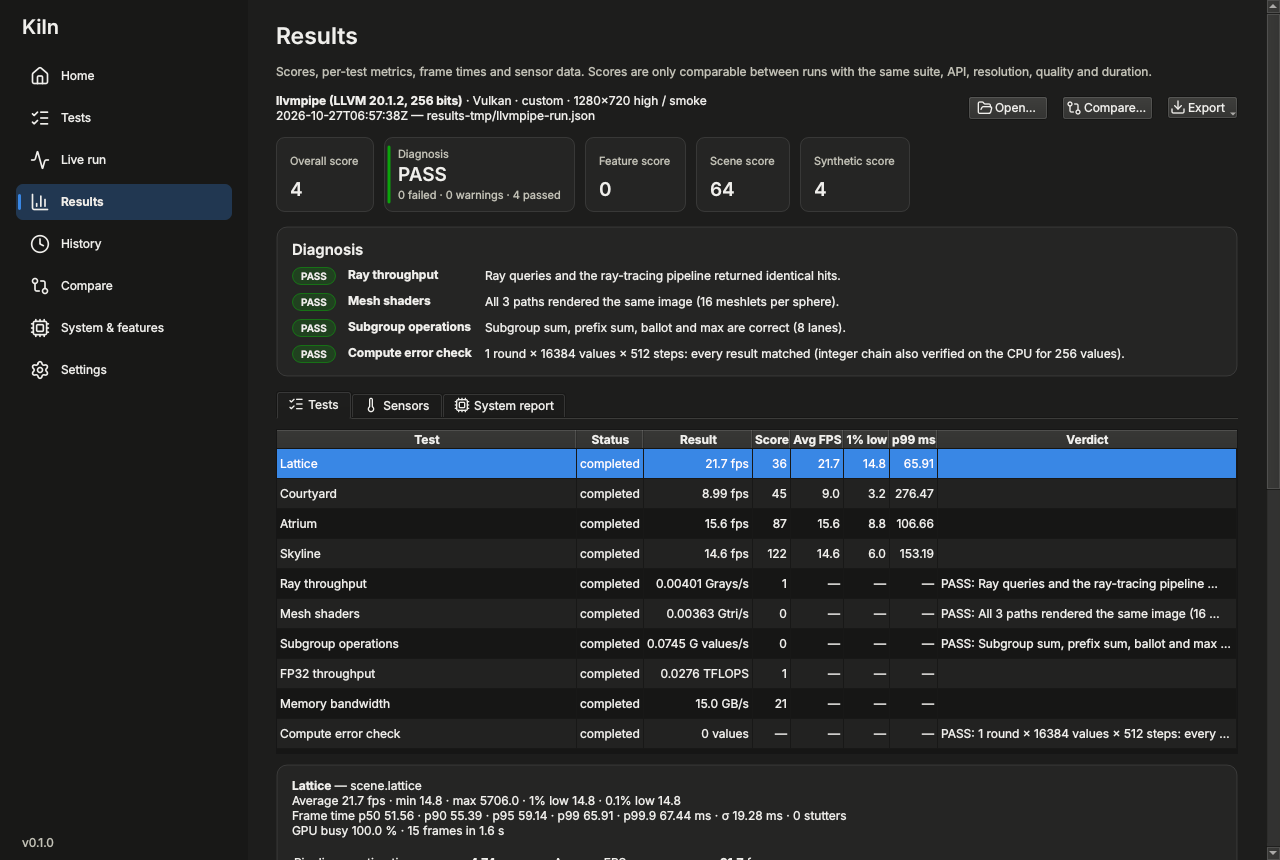
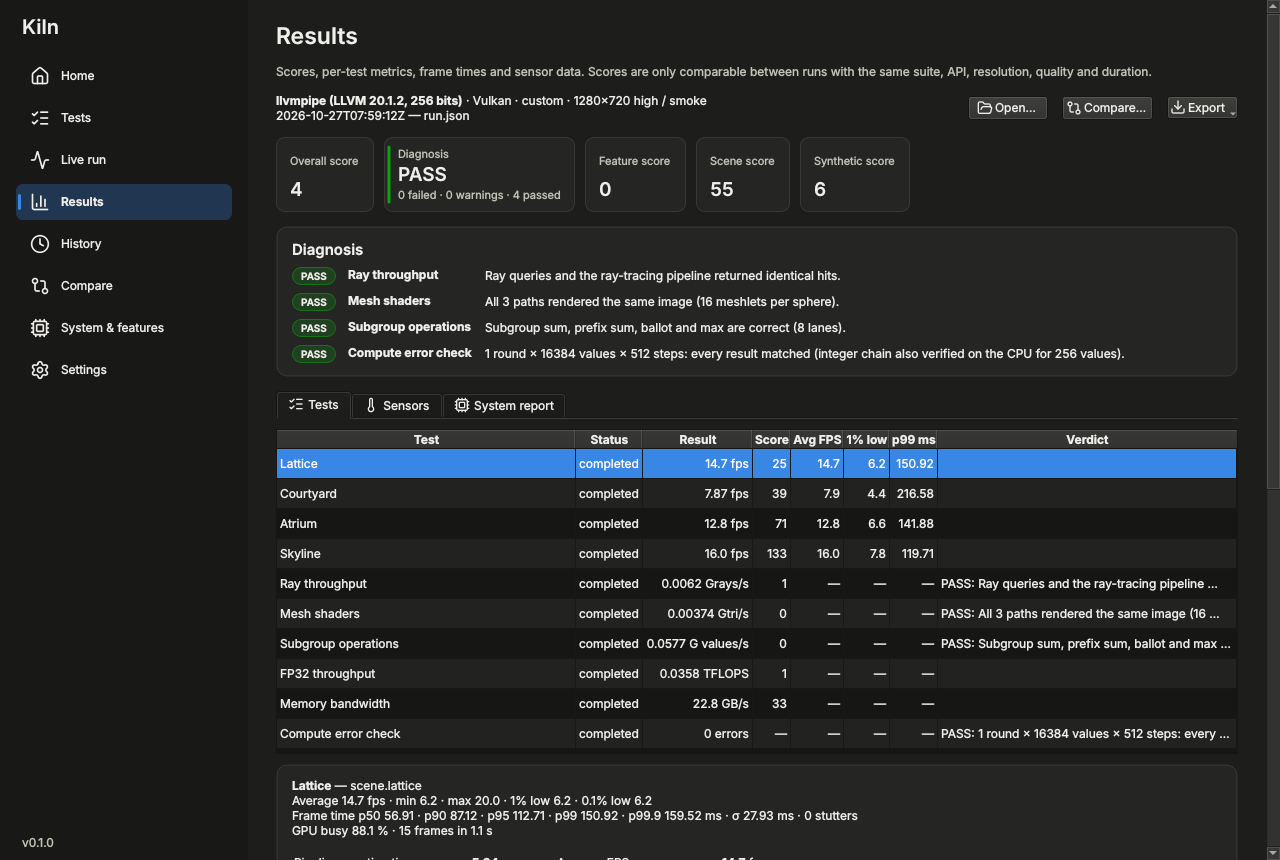
Frame timing: frames right after a golden-frame dump are rendered but not timed
The dump drains the GPU, so the frames in flight after it did not wait for an
earlier frame and recorded only CPU time (near-zero frame times and a bogus max
fps in golden and hardware-report runs). Their timestamps are still read, as
some drivers pace the loop through that read. Diagnostics' headline units read
'errors' / 'bad frames'; README results screenshot regenerated.

Claude-Session: https://claude.ai/code/session_01WtTrfTdar5g8e1VZ9wfixb

diff --git a/src/bench/context.cpp b/src/bench/context.cpp
@@ -236,13 +236,15 @@ FrameLoopResult TestContext::runFrames(const FrameLoopDesc& d) {
     const std::uint32_t pairs = async ? 2 * kInFlight : kInFlight;
     std::unique_ptr<rhi::QueryPool> qp;
     if (m_device.features().timestamps) qp = m_device.createQueryPool(rhi::QueryType::Timestamp, pairs * 2);
-    std::vector<std::int64_t> slotFrame(pairs, -1);
+    constexpr std::int64_t kNoFrame = -1, kUntimedFrame = -2; ///< slotFrame values besides a frame index
+    std::vector<std::int64_t> slotFrame(pairs, kNoFrame);
     auto readSlot = [&](std::uint32_t slot) {
-        if (!qp || slotFrame[slot] < 0) return;
+        if (!qp || slotFrame[slot] == kNoFrame) return;
         std::uint64_t t[2] = {0, 0};
-        if (qp->read(slot * 2, 2, t) && t[1] >= t[0])
+        // Read untimed frames' timestamps too: on some drivers the read is what paces the loop.
+        if (qp->read(slot * 2, 2, t) && t[1] >= t[0] && slotFrame[slot] >= 0)
             out.gpuMs[static_cast<std::size_t>(slotFrame[slot])] = static_cast<double>(t[1] - t[0]) / 1e6;
-        slotFrame[slot] = -1;
+        slotFrame[slot] = kNoFrame;
     };
 
     const double dt = d.simDuration / std::max(1u, d.framesPerPass);
@@ -251,6 +253,9 @@ FrameLoopResult TestContext::runFrames(const FrameLoopDesc& d) {
     const std::uint32_t warmup = m_settings.duration == DurationPreset::Smoke ? std::min(d.warmupFrames, 2u)
                                                                               : d.warmupFrames;
     std::uint64_t counter = 0;
+    // The frames in flight after a golden-frame dump (which drains the GPU) do not wait for an earlier frame;
+    // their time would be the CPU's recording alone, so they are rendered but not timed.
+    std::uint32_t untimed = 0;
     const auto start = clock::now();
     auto lastFrameEnd = start;
     auto lastEvent = start;
@@ -358,13 +363,19 @@ FrameLoopResult TestContext::runFrames(const FrameLoopDesc& d) {
         }
         const auto now = clock::now();
         if (!isWarmup) {
-            out.frameMs.push_back(std::chrono::duration<double, std::milli>(now - lastFrameEnd).count());
-            out.gpuMs.push_back(std::numeric_limits<double>::quiet_NaN());
-            slotFrame[pair] = static_cast<std::int64_t>(out.gpuMs.size() - 1);
+            if (untimed > 0) {
+                --untimed;
+                slotFrame[pair] = kUntimedFrame;
+            } else {
+                out.frameMs.push_back(std::chrono::duration<double, std::milli>(now - lastFrameEnd).count());
+                out.gpuMs.push_back(std::numeric_limits<double>::quiet_NaN());
+                slotFrame[pair] = static_cast<std::int64_t>(out.gpuMs.size() - 1);
+            }
             if (pass == 0 && m_settings.dumpFrames &&
                 std::find(d.goldenFrames.begin(), d.goldenFrames.end(), index) != d.goldenFrames.end() && d.output) {
                 m_device.waitIdle();
                 dumpTexture(shown, std::format("frame{:04}", index));
+                untimed = kInFlight;
             }
         }
         lastFrameEnd = clock::now();

diff --git a/src/bench/tests/diagnostics/artifacts.cpp b/src/bench/tests/diagnostics/artifacts.cpp
@@ -56,7 +56,7 @@ public:
         d["failed_checks"] = c.failedChecks;
         d["mismatched_pixels"] = c.mismatchedPixels;
         d["check_interval_frames"] = interval;
-        ctx.addMetric("failed_checks", "Reference frames with errors", c.failedChecks, "frames", false);
+        ctx.addMetric("failed_checks", "Reference frames with errors", c.failedChecks, "bad frames", false);
         ctx.addMetric("checks", "Reference frames checked", c.checks, "frames");
         if (c.checks == 0) {
             ctx.setVerdict(results::Verdict::Warn, "The run was too short to check any reference frame.");

diff --git a/src/bench/tests/diagnostics/compute_check.cpp b/src/bench/tests/diagnostics/compute_check.cpp
@@ -156,7 +156,7 @@ public:
         d["bad_rounds"] = badRounds;
         d["cpu_checked"] = sample;
         const std::uint64_t total = intMismatch + floatMismatch + cpuMismatch;
-        ctx.addMetric("mismatches", "Wrong results", static_cast<double>(total), "values", false);
+        ctx.addMetric("mismatches", "Wrong results", static_cast<double>(total), "errors", false);
         ctx.addMetric("rounds", "Rounds", rounds, "rounds");
         if (gpuMs > 0) ctx.addMetric("throughput", "Approximate throughput", ops / (gpuMs / 1000.0) / 1e9, "Gop/s");
         if (total == 0) {
